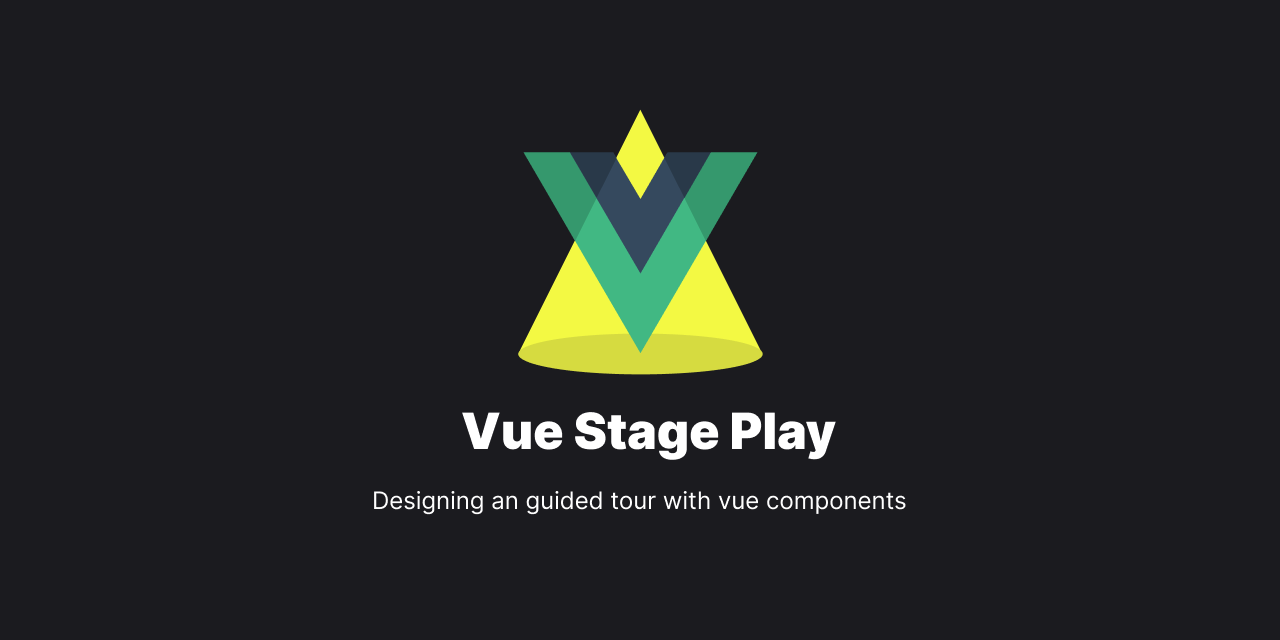
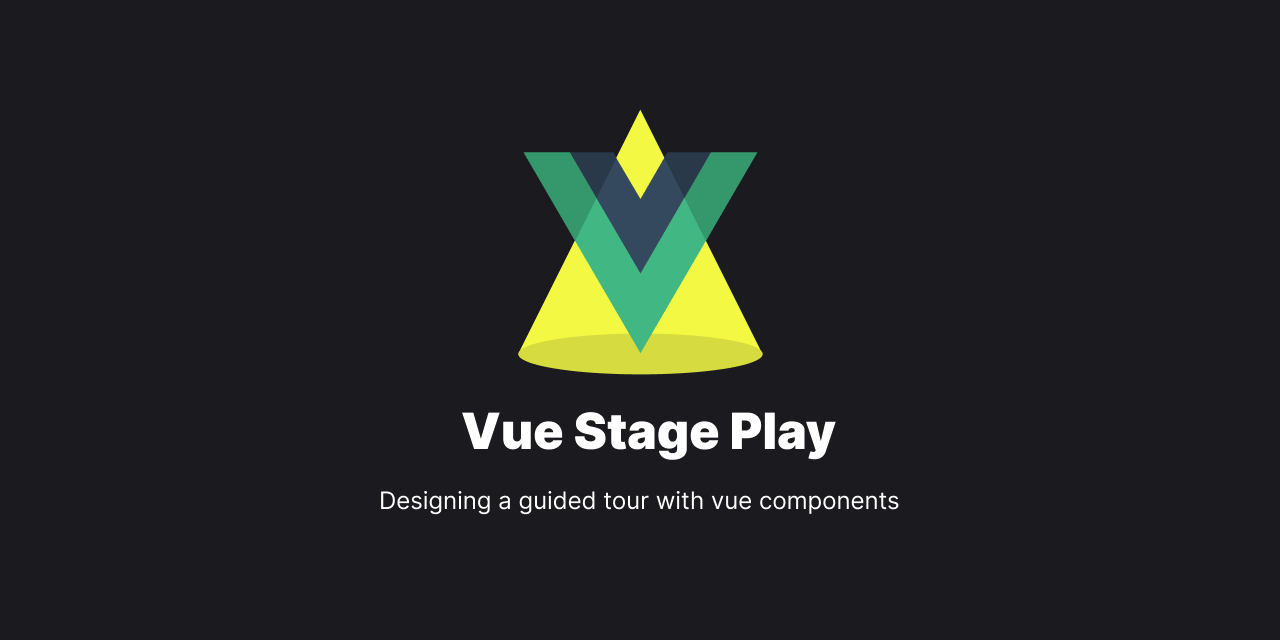
[documentation] update documentation

Changed region(s): [[0.2812, 0.75, 0.7188, 0.8125]]

diff --git a/doc/index.md b/doc/index.md
@@ -5,7 +5,7 @@ layout: home
 hero:
   name: "VueStagePlay"
   text: "Website Guided Tour Components"
-  tagline: Designing an guided tour for your website with vue components, much like directing a stage play
+  tagline: Designing a guided tour for your website with vue components, much like directing a stage play
   actions:
     - theme: brand
       text: Get Started

diff --git a/README.md b/README.md
@@ -8,7 +8,7 @@
 <h1 align="center" style="border: 0px">Vue Stage Play</h1>
 
 <p align="center">
-Designing an guided tour for your website with vue components, much like directing a stage play.
+Designing a guided tour for your website with vue components, much like directing a stage play.
 </p>
 
 <p align="center">
